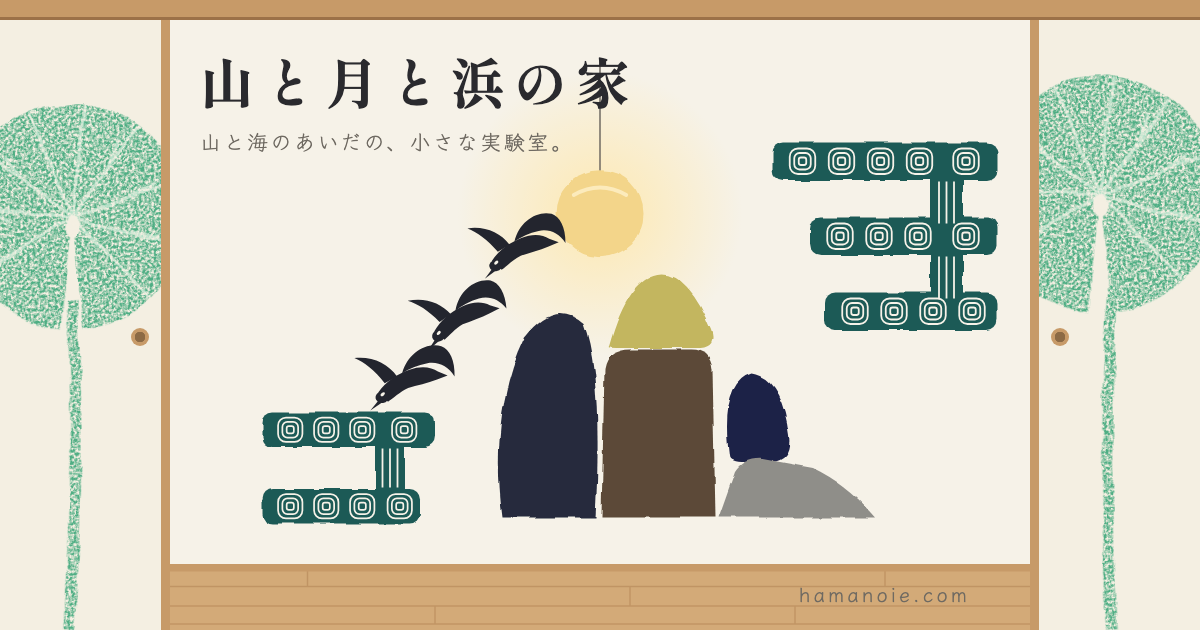
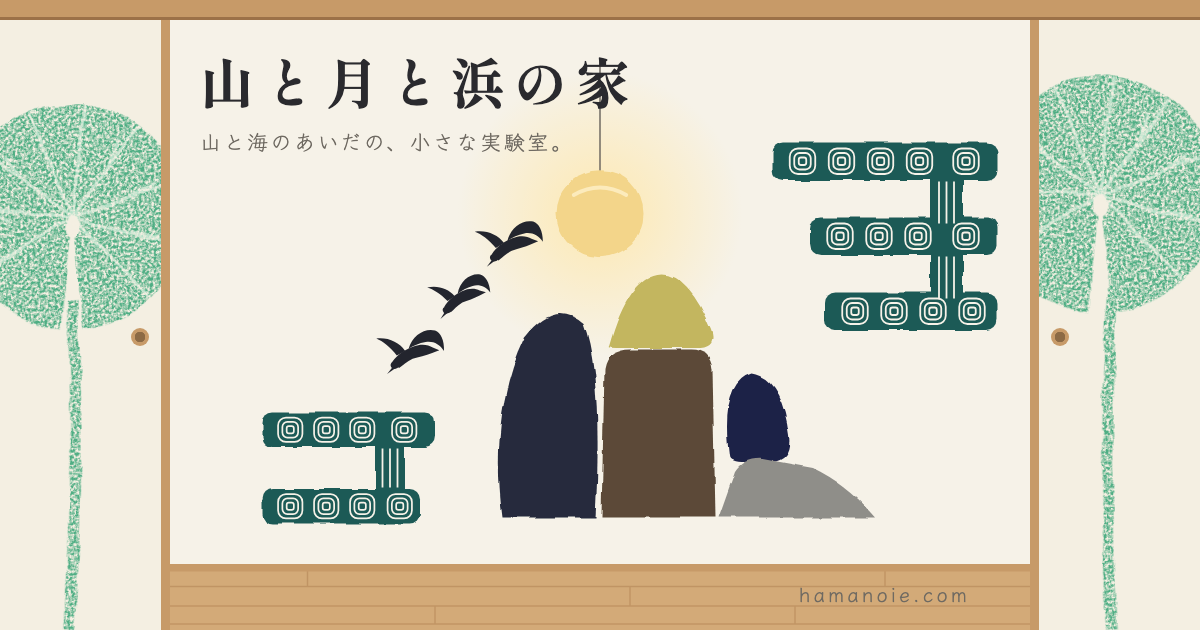
Mural: smaller, plain silhouette geese

Changed region(s): [[0.3083, 0.3317, 0.4933, 0.6635]]

diff --git a/index.html b/index.html
@@ -552,7 +552,6 @@
                 <path d="M0 -14 C16 -48 52 -62 78 -50 C92 -42 98 -20 92 8 C84 -12 68 -24 48 -24 C30 -24 14 -20 0 -14 Z"/>
                 <ellipse cx="-43" cy="22" rx="12" ry="10.5"/>
                 <path d="M-51 27 L-68 42 L-44 31 Z"/>
-                <ellipse cx="-41" cy="17" rx="4.6" ry="2.7" transform="rotate(-30 -41 17)" fill="#F6F2E8"/>
             </g>
         </defs>
     </svg>
@@ -626,9 +625,9 @@
             </g>
 
             <!-- 鳥 -->
-            <g class="bird" style="transform-origin: 488px 252px"><use href="#birdPath" transform="translate(488 252) rotate(-12) scale(0.72)" fill="#23252E"/></g>
-            <g class="bird" style="transform-origin: 410px 344px"><use href="#birdPath" transform="translate(410 344) rotate(-16) scale(0.72)" fill="#23252E"/></g>
-            <g class="bird" style="transform-origin: 338px 428px"><use href="#birdPath" transform="translate(338 428) rotate(-10) scale(0.74)" fill="#23252E"/></g>
+            <g class="bird" style="transform-origin: 478px 248px"><use href="#birdPath" transform="translate(478 248) rotate(-12) scale(0.5)" fill="#23252E"/></g>
+            <g class="bird" style="transform-origin: 412px 318px"><use href="#birdPath" transform="translate(412 318) rotate(-16) scale(0.46)" fill="#23252E"/></g>
+            <g class="bird" style="transform-origin: 346px 392px"><use href="#birdPath" transform="translate(346 392) rotate(-10) scale(0.5)" fill="#23252E"/></g>
 
             <!-- 床 -->
             <rect y="680" width="1200" height="80" fill="#D3AA78"/>
